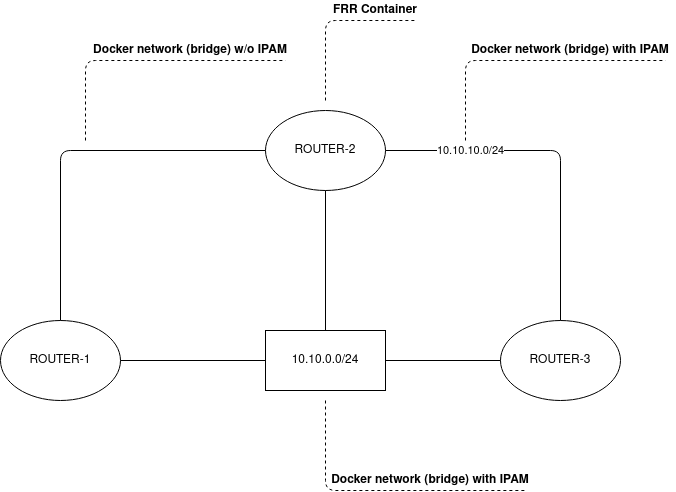
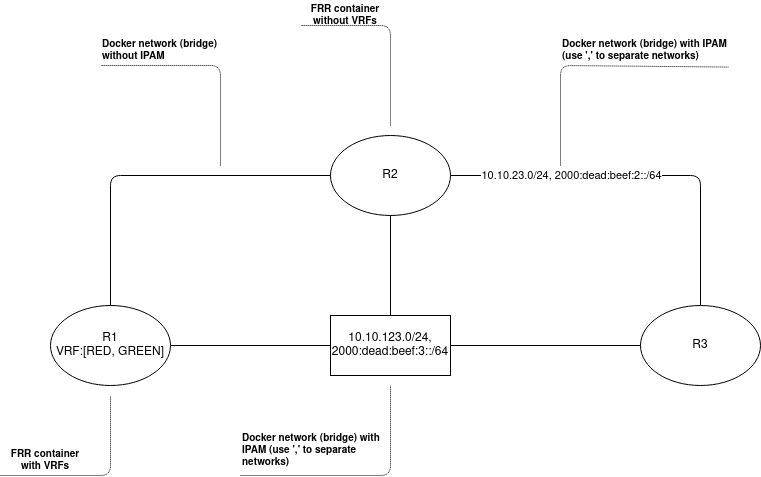
New features have been added: ipv6 support, vrf support, minor improvements

diff --git a/topology_builder.py b/topology_builder.py
@@ -4,7 +4,8 @@ import sys
 import ipaddress
 import yaml
 import argparse
-
+import os
+import shutil
 
 class TheScript():
 	def __init__(self):
@@ -39,8 +40,11 @@ class TheScript():
 		parser.add_argument("-f", "--file", required=True, help="draw.io XML topology file")
 		parser.add_argument("-d", "--dir", default=None, help="Directory to put final docker-compose.yml file (current dir by default)")
 		parser.add_argument("-p", "--path", default=None, help="Path to dir with Dockerfile (./frr default)")
-		parser.add_argument("-m", "--mpls", default=False, help="Boolean. Is MPLS enabled (False by default)")
+		parser.add_argument("-m", "--mpls", action='store_true', help="Boolean. Is MPLS enabled (False by default)")
+		parser.add_argument("-6", "--ipv6", action='store_true', help="Boolean. Is IPv6 (False by default)")
 		parser.add_argument("-D", "--daemons", default=None, help="Daemons to enable in FRR (e.g: proto1,proto2,proto3 All daemons enabled by default)")
+		parser.add_argument("-P", "--pwd", default='root', help="A password to use for a container SSH connection")
+		parser.add_argument("-k", "--key", default=None, help="A public key to use for a container SSH connection")
 		parser.add_argument("-r", "--router_shape", default='ellipse', help="A shape what represents router  on diagram (ellipse by default). Use: ellipse, rectangle, triangle, hexagon")
 		parser.add_argument("-n", "--network_shape", default='rectangle', help="A shape what represents broadcast network on diagram (rectangle by default). Use: ellipse, rectangle, triangle, hexagon")
 		args = parser.parse_args()
@@ -56,9 +60,19 @@ class TheScript():
 			self.build_path = args.path
 		else:
 			self.build_path = '{}/frr'.format(self.working_dir)
-	
+
+		self.container_pwd = args.pwd
+
+		if args.key:
+			if os.path.exists(args.key):
+				self.container_key = args.key
+			else:
+				self.container_key = None
+		else:
+			self.container_key = None
 		self.is_mpls_enabled = args.mpls
-		
+		self.is_ipv6_enabled = args.ipv6
+
 		self.daemon_list = list()
 		if args.daemons:
 			for daemon in args.daemons.split(','):
@@ -125,9 +139,26 @@ class TheScript():
 		else:
 			return False
 	
+	def __parse_router_name(self, raw_name):
+		result_dict = {'name': str(), 'vrf_list': list()}
+		pattern_router_name = re.compile('^<div>(.+?)<\/div>')
+		pattern_vrf_list = re.compile('VRF:\s*?\[(.+?)\]')
+		router_name_result = pattern_router_name.search(raw_name)
+		if router_name_result:
+			result_dict['name'] = router_name_result.group(1)
+			vrf_result = pattern_vrf_list.search(raw_name)
+			if vrf_result:
+				result_dict['vrf_list'] = vrf_result.group(1).replace(' ', '').split(',')
+		else:
+			result_dict['name'] = raw_name
+
+		return result_dict
+
 	def create_router_list(self, router_shape):
 		for cell in self.object_by_type(self.mxcell_list, router_shape):
-			self.router_list.append(Router('{}-{}'.format(cell.value.lower(), len(self.object_list_by_name(self.router_list, cell.value.lower()))+1), cell))
+			router_name = '{}-{}'.format(self.__parse_router_name(cell.value)['name'].lower(), len(self.object_list_by_name(self.router_list, self.__parse_router_name(cell.value)['name'].lower()))+1)
+			vrf_list = self.__parse_router_name(cell.value)['vrf_list']
+			self.router_list.append(Router(router_name, cell, vrf_list))
 		if len(self.router_list) > 0:
 			return True
 		else:
@@ -135,31 +166,33 @@ class TheScript():
 
 	def create_network_list(self, network_shape):
 		for cell in self.object_by_type(self.mxcell_list, network_shape):
-			net_name = 'net:{}'.format(re.sub('[./\s]', '_', cell.value))
-			self.network_list.append(Network(net_name, cell))
-			self.network_list[-1].add_subnet(cell.value)
+			net_name = 'net:{}'.format(re.sub('[,./\s]', '_', cell.value))
+			self.network_list.append(Network(net_name, cell, self.is_ipv6_enabled))
+			self.network_list[-1].add_subnet_to_list(cell.value)
 		return True
 
 	def create_link_list(self):	
 		for cell in self.object_by_type(self.mxcell_list, 'edge'):
 			connection_dict = {'source': None, 'target': None}
 			for connection, name in connection_dict.items():
+
 				try:
 					connection_dict[connection] = getattr(cell, connection)
 				except:
 					pass
 			if all(connection_dict.values()):
 				if connection_dict['source'].type == self.router_shape and connection_dict['target'].type == self.router_shape:
-					link_name = 'link:{}:{}'.format(connection_dict['source'].value, connection_dict['target'].value).lower()
-					self.link_list.append(Link('{}:{}'.format(link_name, len(self.object_list_by_name(self.link_list, link_name))+1), cell))
-					self.link_list[-1].add_subnet(cell.value)
+					link_name = 'link:{}:{}'.format(self.__parse_router_name(connection_dict['source'].value)['name'], 
+													self.__parse_router_name(connection_dict['target'].value)['name']).lower()
+					self.link_list.append(Link('{}:{}'.format(link_name, len(self.object_list_by_name(self.link_list, link_name))+1), cell, self.is_ipv6_enabled))
+					self.link_list[-1].add_subnet_to_list(cell.value)
 				if connection_dict['source'].type == self.network_shape:
-					net_name = 'net:{}'.format(re.sub('[./\s]', '_', connection_dict['source'].value))
+					net_name = 'net:{}'.format(re.sub('[,./\s]', '_', connection_dict['source'].value))
 					network_object = self.object_by_attribute(self.network_list, 'name', net_name)
 					if network_object:
 						network_object.add_host(connection_dict['target'])
 				if connection_dict['target'].type == self.network_shape:
-					net_name = 'net:{}'.format(re.sub('[./\s]', '_', connection_dict['target'].value))
+					net_name = 'net:{}'.format(re.sub('[,./\s]', '_', connection_dict['target'].value))
 					network_object = self.object_by_attribute(self.network_list, 'name', net_name)
 					if network_object:
 						network_object.add_host(connection_dict['source'])
@@ -167,8 +200,8 @@ class TheScript():
 				for connection, name in connection_dict.items():
 					if name:
 						link_name = 'link:STUB:{}'.format(name.value).lower()
-						self.link_list.append(Link('{}:{}'.format(link_name, len(self.object_list_by_name(self.link_list, link_name))+1), cell))
-						self.link_list[-1].add_subnet(cell.value)
+						self.link_list.append(Link('{}:{}'.format(link_name, len(self.object_list_by_name(self.link_list, link_name))+1), cell, self.is_ipv6_enabled))
+						self.link_list[-1].add_subnet_to_list(cell.value)
 
 
 		if len(self.link_list) > 0:
@@ -188,14 +221,23 @@ class TheScript():
 
 
 class DockerStartFile():
-	def __init__(self, path):
+	def __init__(self, path, TheScriptObject):
 		self.path = path
 		with open('{}/docker-start'.format(self.path), 'w') as output_file:
 			output_file.write('#!/bin/sh\nset -e\n')
 			output_file.write("\n#Enable SSH\n")
 			output_file.write("sed -i 's/#PermitRootLogin .*/PermitRootLogin yes/' /etc/ssh/sshd_config\n")
-			output_file.write("sed -i 's/#PermitEmptyPasswords .*/PermitEmptyPasswords yes/' /etc/ssh/sshd_config\n")
-			output_file.write("echo 'root:root' | chpasswd\n")
+			output_file.write("echo 'root:{}' | chpasswd\n".format(TheScriptObject.container_pwd))
+			if TheScriptObject.container_key:
+				try:
+					with open(TheScriptObject.container_key, 'r') as key_file:
+						key_string = key_file.read()
+				except:
+					key_string = str()
+				if key_string:
+					output_file.write("sed -i 's|#AuthorizedKeysFile.*|AuthorizedKeysFile /etc/ssh/authorized_keys|' /etc/ssh/sshd_config\n")
+					output_file.write("touch /etc/ssh/authorized_keys\n")
+					output_file.write("echo '{}' > /etc/ssh/authorized_keys\n".format(key_string))
 			output_file.write("echo 'exec /usr/bin/vtysh' >> ~/.bashrc\n")
 			output_file.write("/etc/init.d/ssh start\n")
 			output_file.write("\n\n\n")
@@ -216,6 +258,18 @@ class DockerStartFile():
 			output_file.write("for iface in $(ls /proc/sys/net/mpls/conf/); do sysctl -w net.mpls.conf.$iface.input=1; done\n")
 			output_file.write("/etc/init.d/frr start\n")
 			output_file.write("\n\n\n")
+	def enable_vrf(self, vrf_list):
+		index = 1
+		with open('{}/docker-start'.format(self.path), 'a') as output_file:
+			output_file.write("#Enable VRF\n")
+			for vrf in vrf_list:
+				output_file.write(f"ip link add {vrf} type vrf table {index}\n")
+				output_file.write(f"ip link set dev {vrf} up\n")
+				output_file.write(f"ip rule add oif {vrf} table {index}\n")
+				output_file.write(f"ip rule add iif {vrf} table {index}\n")
+				output_file.write(f"ip route add table {index} unreachable default metric 4278198272\n\n")
+				index+=1
+			output_file.write("\n\n\n")		
 
 	def launch_continous_process(self):
 		with open('{}/docker-start'.format(self.path), 'a') as output_file:
@@ -269,16 +323,17 @@ class NetworkObject():
 		self.mxCellObject = mxCellObject
 
 class Router(NetworkObject):
-	def __init__(self, name, mxCellObject):
+	def __init__(self, name, mxCellObject, vrf_list = list()):
 		super().__init__(name, mxCellObject)
 		self.link_list = list()
+		self.vrf_list = vrf_list
 
 	def add_link(self, link):
 		self.link_list.append(link)
 
 	def prepare_yaml_dict(self, build_path, expose_ports = None, is_privileged = False):
 		yaml_dict = {self.name: {
-									"build": build_path,
+									"build": '{}/{}'.format(build_path, self.name),
 									"ports": ['{}:{}'.format(ports_tuple[0], ports_tuple[1]) for ports_tuple in expose_ports],
 									"privileged": is_privileged,
 									"networks": [str(link.name) for link in self.link_list]
@@ -288,30 +343,46 @@ class Router(NetworkObject):
 
 
 class Link(NetworkObject):
-	def __init__(self, name, mxCellObject):
+	def __init__(self, name, mxCellObject, is_ipv6_enabled = False):
 		super().__init__(name, mxCellObject)
-		self.subnet = None
+		self.subnet_list = list()
+		self.is_ipv6_enabled = is_ipv6_enabled
 
-	def add_subnet(self, subnet):
-		try:
-			self.subnet = ipaddress.ip_network(subnet)
-		except:
-			self.subnet = None
+	def add_subnet_to_list(self, raw_string):
+		for subnet in raw_string.replace(' ','').split(','):
+			try:
+				self.subnet_list.append(ipaddress.ip_network(subnet))
+			except:
+				self.subnet_list.append(None)
+		return True
+
 	def prepare_yaml_dict(self):
-		yaml_dict = {self.name: {
-									"driver": "bridge"
-								}
-					}
-		if self.subnet:
+		if self.is_ipv6_enabled:
+			yaml_dict = {self.name: {
+										"enable_ipv6": True,
+										"driver": "bridge",
+										"driver_opts": {"com.docker.network.enable_ipv6": True}
+									}
+						}
+		else:
+			yaml_dict = {self.name: {
+							"driver": "bridge"
+									}
+						}
+		if self.subnet_list:
 			yaml_dict[self.name]["ipam"] = {"driver": "default", 
-										    "config": [{'subnet': str(self.subnet)}]
+										    "config": list()
 										   }
+			for subnet in self.subnet_list:
+				if subnet:
+					yaml_dict[self.name]["ipam"]["config"].append({'subnet': str(subnet)})
 		return yaml_dict
 
 class Network(Link):
-	def __init__(self, name, mxCellObject):
-		super().__init__(name, mxCellObject)
+	def __init__(self, name, mxCellObject, is_ipv6_enabled = False):
+		super().__init__(name, mxCellObject, is_ipv6_enabled = False)
 		self.host_list = list()
+		self.is_ipv6_enabled = is_ipv6_enabled
 
 	def add_host(self, RouterObject):
 		self.host_list.append(RouterObject)
@@ -352,7 +423,6 @@ def main():
 	TopologyBuilder = TheScript()
 	TopologyBuilder.parsing_arguments()
 	DockerComposeFileObject = DockerComposeFile(TopologyBuilder.working_dir, TopologyBuilder.build_path)
-	DockerStartFileObject = DockerStartFile(TopologyBuilder.build_path)
 
 	sys.stdout.write("DONE\n")
 	sys.stdout.write("Parsing draw.io XML file... ")
@@ -389,13 +459,25 @@ def main():
 		sys.stderr.write('Something goes wrong parsing draw io XML file. Bye.\n')
 		sys.exit(1)
 
-	sys.stdout.write("Creating container configuration file... ")
+	sys.stdout.write("Creating container configuration files.. ")
 
-	DockerStartFileObject.enable_daemons(TopologyBuilder.daemon_list)
-	if TopologyBuilder.is_mpls_enabled:
-		DockerStartFileObject.enable_mpls()
-	DockerStartFileObject.launch_continous_process()
+	for router in TopologyBuilder.router_list:
+		container_build_dir = os.path.join(TopologyBuilder.build_path, router.name)
+		if not os.path.exists(container_build_dir):
+			os.mkdir(container_build_dir)
+		shutil.copyfile(os.path.join(TopologyBuilder.build_path, 'Dockerfile'),
+				 		os.path.join(container_build_dir, 'Dockerfile'))
+		DockerStartFileObject = DockerStartFile(container_build_dir, TopologyBuilder)
+		DockerStartFileObject.enable_daemons(TopologyBuilder.daemon_list)
+		if TopologyBuilder.is_mpls_enabled:
+			DockerStartFileObject.enable_mpls()
+		if router.vrf_list:
+			DockerStartFileObject.enable_vrf(router.vrf_list)
+		DockerStartFileObject.launch_continous_process()
 	sys.stdout.write("DONE\n")
+	if TopologyBuilder.is_mpls_enabled:
+		sys.stdout.write("\n*** WARNING: Since MPLS is going to be used, pls load the modules first ***\n")
+		sys.stdout.write("   - modprobe mpls_router\n   - modprobe mpls_gso\n   - modprobe mpls_iptunnel\n\n")
 
 
 if __name__ == '__main__':

diff --git a/README.md b/README.md
@@ -1,5 +1,5 @@
 # Topology builder
-The script is proposed to deploy a network topology drawn in [draw.io](https://app.diagrams.net/) using containerized [FRR](https://frrouting.org/) as routers. The script uses [Docker file](https://github.com/alekshi/topology_builder/blob/master/frr/Dockerfile) creates docker-compose file and container configuration file (frr/docker-start). 
+The script is proposed to deploy a network topology drawn in [draw.io](https://app.diagrams.net/) using containerized [FRR](https://frrouting.org/) as routers. The script uses [Docker file](https://github.com/alekshi/topology_builder/blob/master/frr/Dockerfile) creates docker-compose file and container configuration files (docker-start, per container image). 
 
 ## Draw.io diagram defenitions
 A mapping between draw.io and docker objects is depicted on the figure below:
@@ -12,7 +12,7 @@ You can use any shapes for router and broadcast networks. IPv4 subnets are suppo
 git clone https://github.com/alekshi/topology_builder.git
 cd topology_builder/
 ```
-2. Draw a network diagram using [draw.io](https://app.diagrams.net/) and export to xml (without compressing)
+2. Draw a network diagram using [draw.io](https://app.diagrams.net/) and export to xml (without compressing). If VRFs are going to be used, put them in a list after new line in router name (like: ```VRF:[RED,GREEN,BLUE]```)
 3. To use MPLS with Linux kernel, load additional modules:
 ```  
    modprobe mpls_router
@@ -28,9 +28,11 @@ Default settings include:
 * Rectangle as broadcast network
 * All FRR daemons are enable
 * MPLS is disable
+* IPv6 is disable
+* SSH authentication by login/password (root/root)
 Use ``` --help ```  to see all options
 5. Launch docker-compose file to create topology
 ``` 
 docker-compose up -d
 ``` 
-6. Check ports what are exposed for ssh connection using ```docker container ls```  By default 2000+ ports are used for ssh and root/root credentials. 
+6. Check ports what are exposed for ssh connection using ```docker container ls```  By default 2000+ ports are used for ssh and root/root credentials. It is possible to create own password or use public key for SSH authentication. Use ``` --help ```
